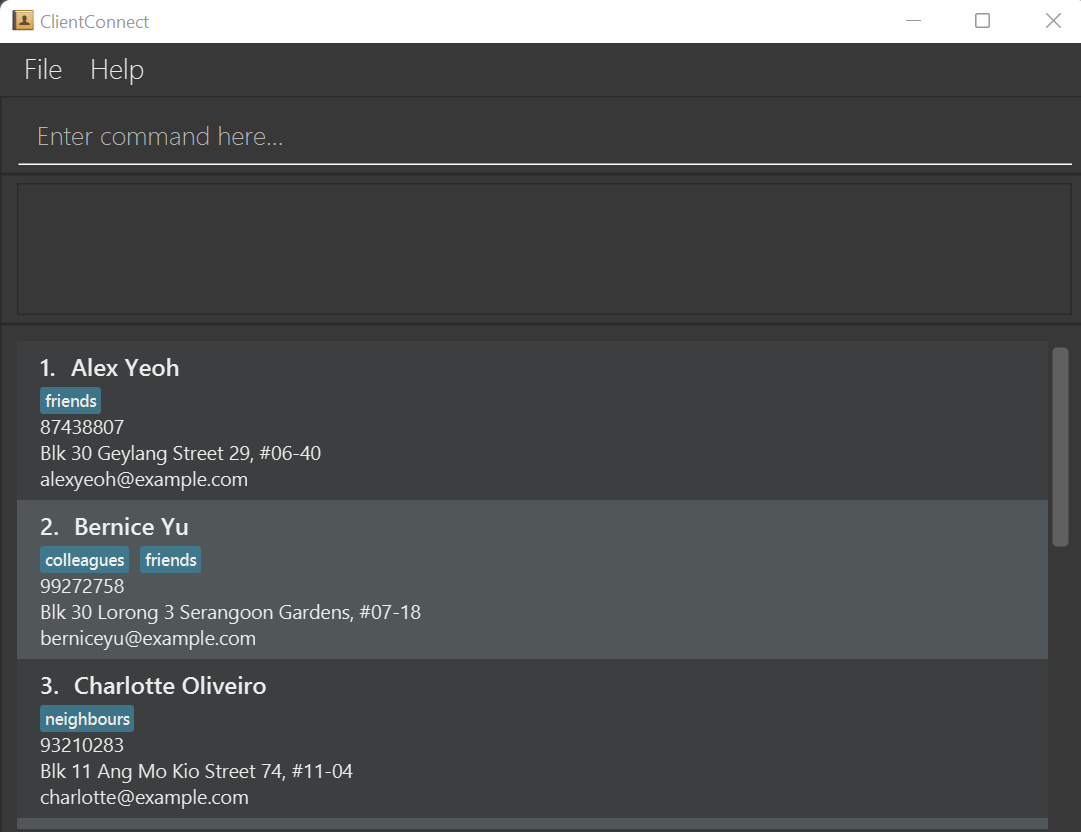
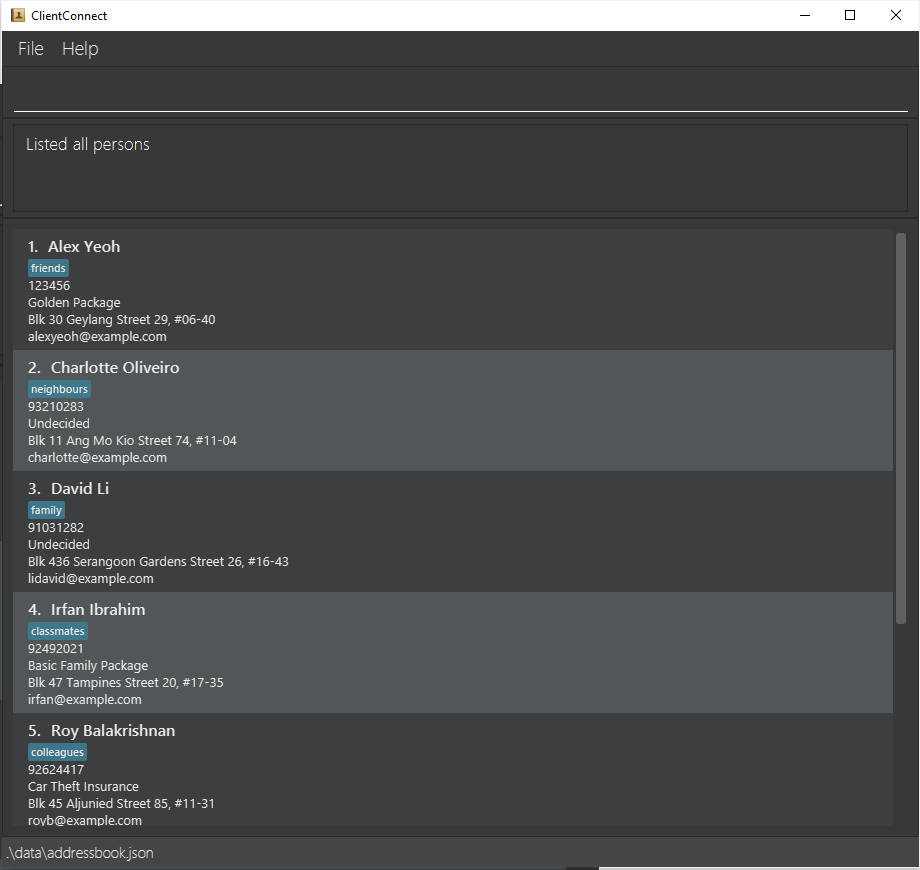
Update UG to include screenshots

diff --git a/docs/UserGuide.md b/docs/UserGuide.md
@@ -70,17 +70,36 @@ Shows a message explaining how to access the ClientConnect help page.
 
 Format: `help`
 
+Alternatively, click the Help button on the toolbar to view a dropdown window displaying a "Help ... F1" button.
+
+This also shows that you can press F1 on your keyboard to open the help message.
+
+![Help button image](images/helpButtonUG.png)
+
+On clicking Help, you will see this as a result:
+
+![Help window image](images/helpWindowUG.png)
+
 ### Adding a person: `add`
 
 Adds a person, as well as any details, to ClientConnect.
 
-Format: `add n/NAME p/PHONE_NUMBER e/EMAIL a/ADDRESS i/INSURANCE_PACKAGE [t/TAG]…`
+Format: `add n/NAME p/PHONE_NUMBER e/EMAIL a/ADDRESS [i/INSURANCE_PACKAGE] [t/TAG]…`
 
 Examples:
-* `add n/Damith p/99998888 e/damith@damith.com`
+* `add n/Damith p/99998888 e/damith@damith.com a/Blk 123 i/package 1`
 * `add n/Jackson p/92341888 e/jackson5@example.com a/laney street, block 123, #01-01, i/package1 t/important`
 
-Note: Any tags are **optional**, and anyone can have any number of tags, even 0
+Before adding:
+
+![result before 'add n/Damith p/99998888 e/damith@damith.com a/Blk 123 i/package 1'](images/beforeAddDamithUG.png)
+
+After adding:
+
+![result after 'add n/Damith p/99998888 e/damith@damith.com a/Blk 123 i/package 1'](images/afterAddDamithUG.png)
+
+Notes: 
+* Any tags are optional.
 
 ### Listing all persons : `list`
 
@@ -88,14 +107,25 @@ Displays all your clients in ClientConnect.
 
 Format: `list`
 
+![result for 'list'](images/listAllClientsUG.png)
+
 ### Editing a person : `edit`
 
 Edits an existing client in ClientConnect, similar to adding a new client.
 
-Format: `edit INDEX [n/NAME] [p/PHONE] [e/EMAIL] [a/ADDRESS] [i/INSURANCE_PACKAGE] [t/TAG]…`
+Format: `edit INDEX [n/NAME] [p/PHONE] [e/EMAIL] [a/ADDRESS] [i/INSURANCE_PACKAGE] [t/TAG]…`
 
 Examples:
 * `edit 1 p/123456 will edit the phone number of the client listed as #1 to 123456`
+
+Before editing:
+
+![result before 'edit 1 p/123456'](images/beforeEditUG.png)
+
+After editing:
+
+![result after 'edit 1 p/123456'](images/afterEditUG.png)
+
 
 Notes:
 * Edits the person at the specified `INDEX`.
@@ -127,10 +157,11 @@ Examples:
 * `find p/91234567` returns the client that is associated to the number
 * `find a/street` returns the client associated with the address
 
-![result for 'find alex david'](images/findAlexDavidResult.png)
-* `find n/alex david` returns `Alex Yeoh`, `David Li`
+After a `find` command:
 
-![result for 'find alex david'](images/findAlexDavidResult.png)
+![result for 'find alex david'](images/findAlexDavidResultUG.png)
+* `find n/ alex david` returns `Alex Yeoh`, `David Li`
+
 
 ### Deleting a person : `delete`
 
@@ -145,6 +176,14 @@ Format: `delete INDEX`
 Examples:
 1. `delete 1`
 2. `find n/John` followed by `delete 1` deletes the 1st person in the results provided by ClientConnect after finding by the `John` keyword
+
+Before a delete command:
+
+![result before 'delete 2'](images/beforeDeleteUG.png)
+
+After `delete 2`:
+
+![result after 'delete 2'](images/afterDeleteUG.png)
 
 ### Clearing all entries : `clear`
 
@@ -164,10 +203,18 @@ Format: `exit`
 
 | Action     | Format, Examples|
 |------------|------------------|
-| **Add**    | `add n/NAME p/PHONE_NUMBER e/EMAIL a/ADDRESS i/INSURANCE_PACKAGE [t/TAG]` <br> e.g., `add n/James Ho p/22224444 e/jamesho@example.com a/123, Clementi Rd, 1234665 i/package1 t/friend t/colleague`|
+| **Add**    | `add n/NAME p/PHONE_NUMBER e/EMAIL a/ADDRESS i/INSURANCE_PACKAGE [t/TAG]…` <br> e.g., `add n/James Ho p/22224444 e/jamesho@example.com a/123, Clementi Rd, 1234665 i/package1 t/friend t/colleague`|
  | **Delete** | `delete INDEX`<br> e.g., `delete 3`|
-| **Edit**   | `edit INDEX [n/NAME] [p/PHONE_NUMBER] [e/EMAIL] [a/ADDRESS] [i/INSURANCE_PACKAGE] [t/TAG]`<br> e.g.,`edit 2 n/James Lee e/jameslee@example.com`|
+| **Edit**   | `edit INDEX [n/NAME] [p/PHONE_NUMBER] [e/EMAIL] [a/ADDRESS] [i/INSURANCE_PACKAGE] [t/TAG]…`<br> e.g.,`edit 2 n/James Lee e/jameslee@example.com`|
  | **Find**   | `find FIELD KEYWORD [MORE_KEYWORDS]`<br> e.g., `find n/James Jake`|
 | **List**   | `list`|
  | **Help**   | `help`|
  | **Exit**   | `exit`|
+
+Fields:
+* `n/`: name
+* `p/`: phone number
+* `e/`: email
+* `a/`: address
+* `i/`: insurance package
+* `t/`: tags
